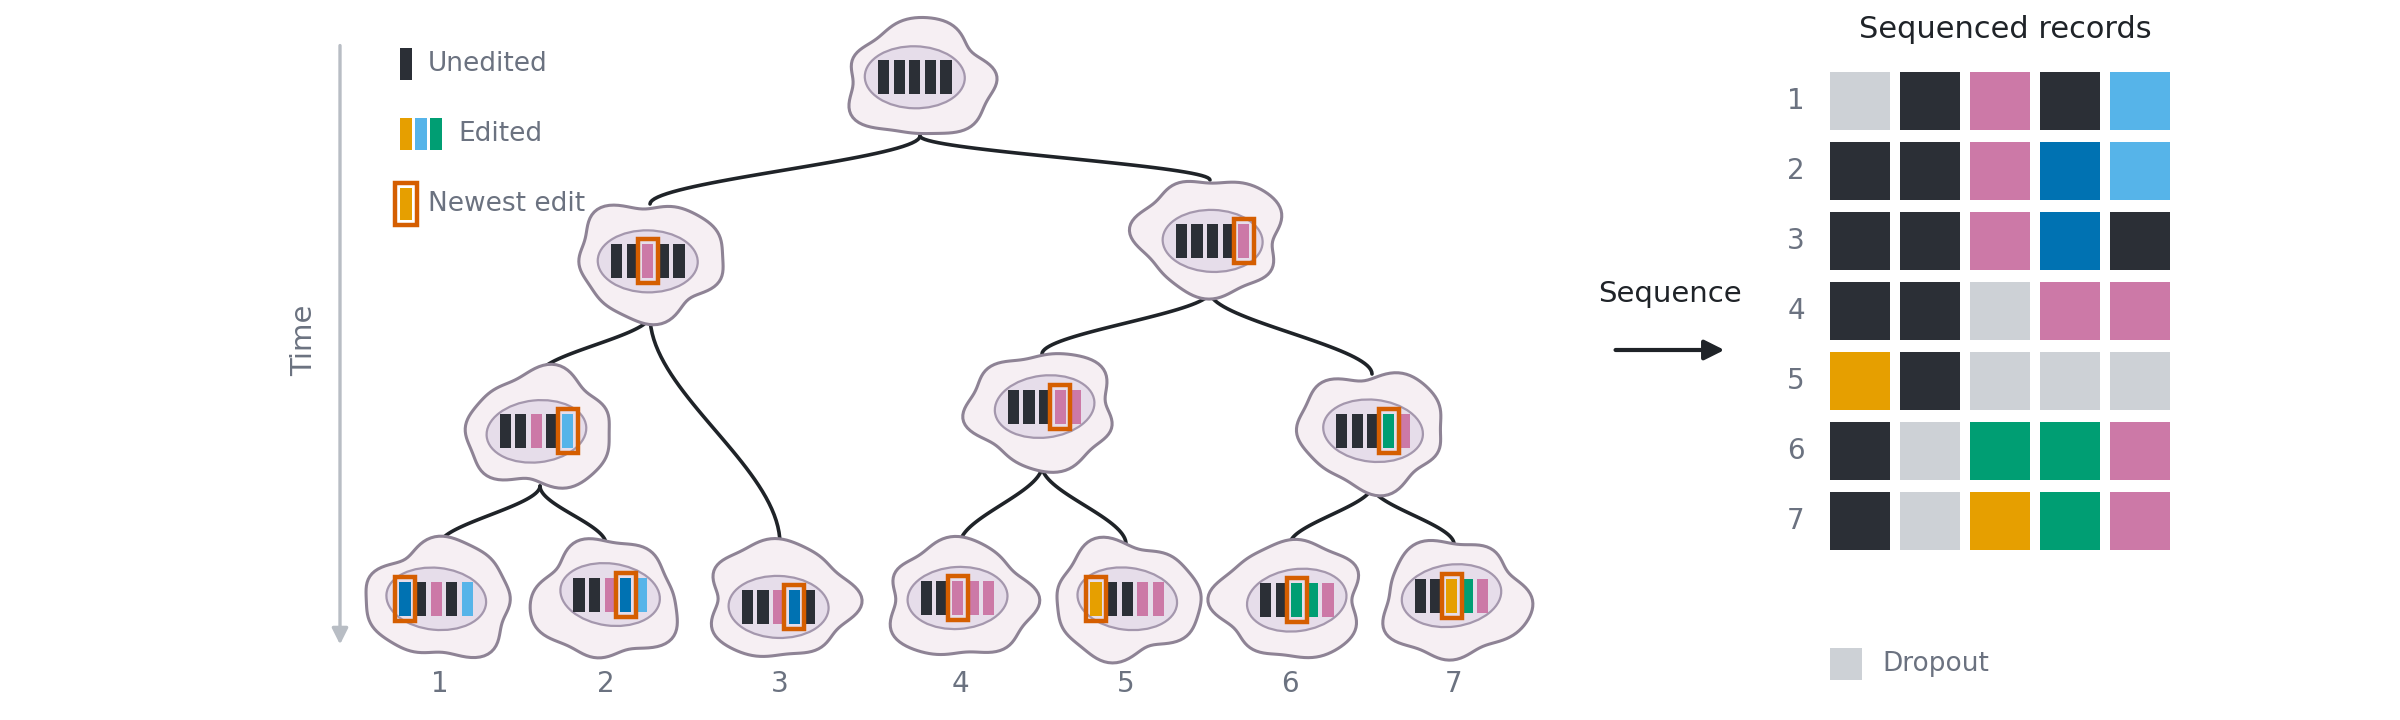
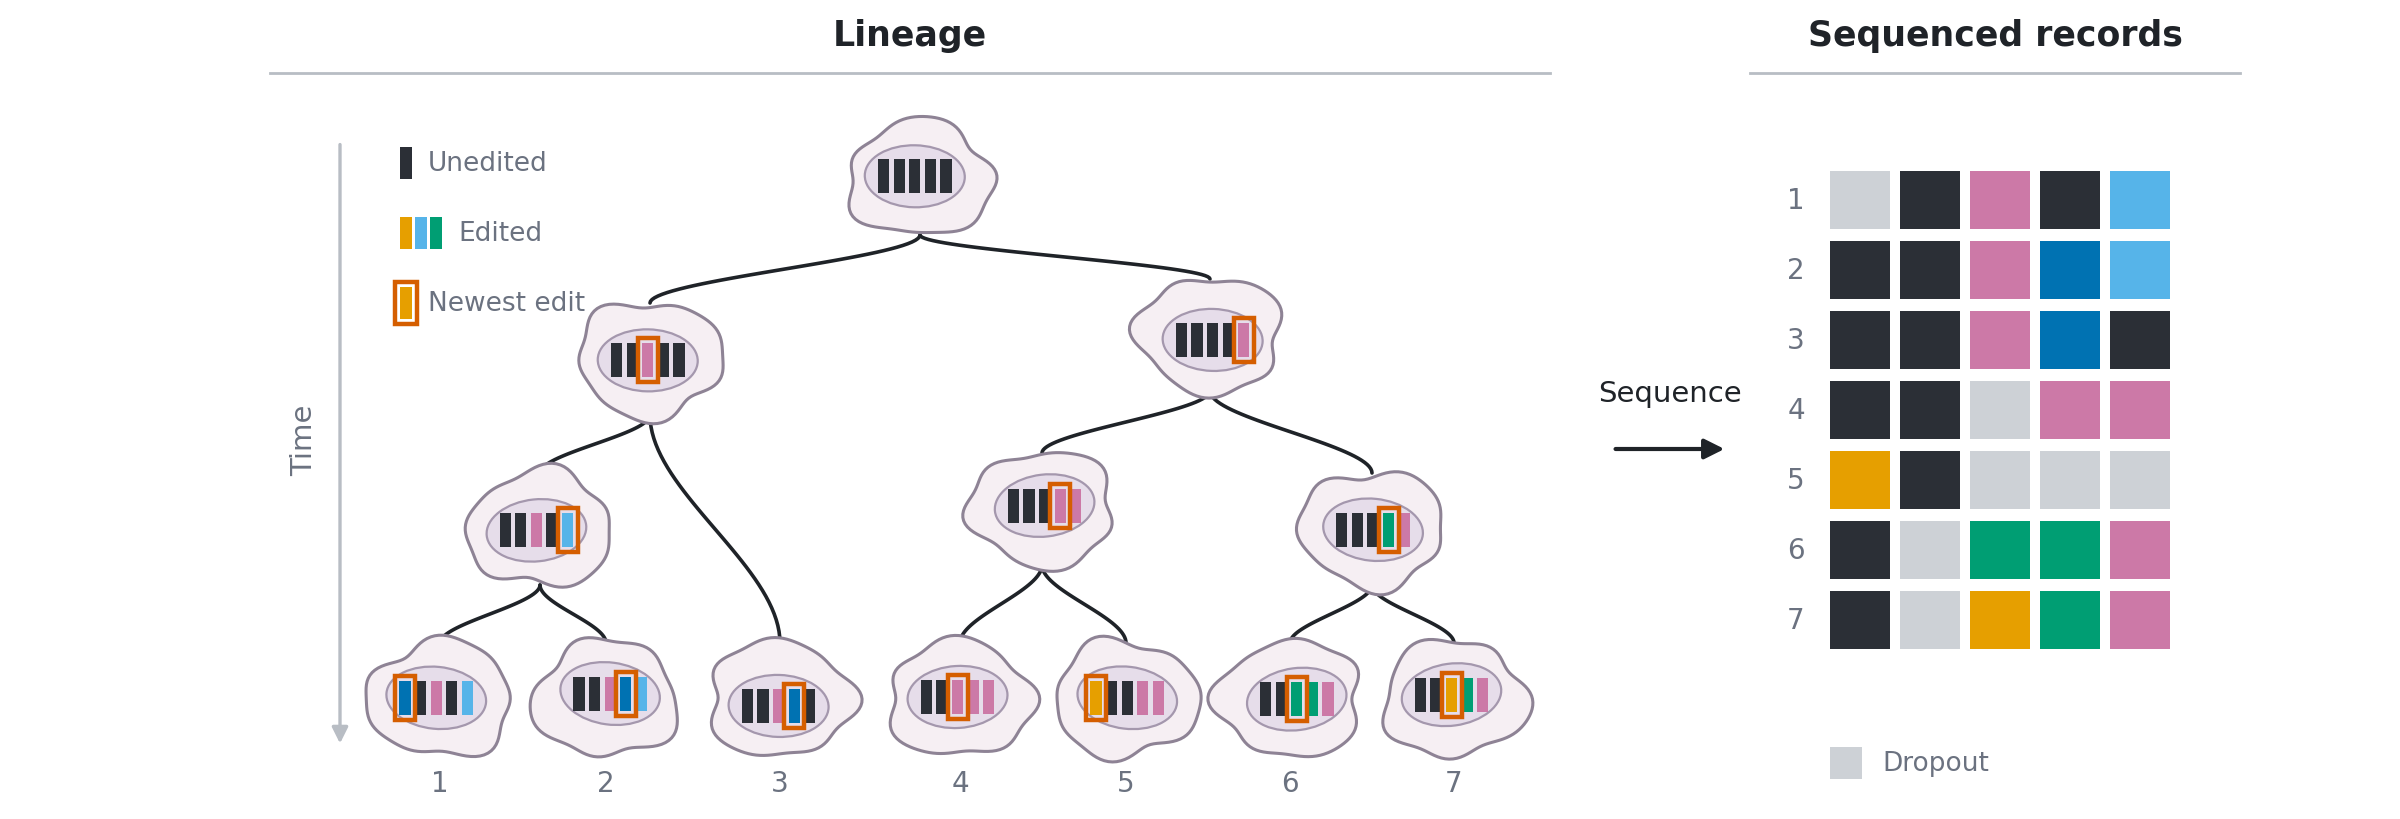
Limb-bud tissue; uncommitted middle band; shared figure headers; serif headings and small caps; headshot raised

diff --git a/_sass/_custom.scss b/_sass/_custom.scss
@@ -22,6 +22,7 @@
   --site-underline: #c7c7cc;
   --site-font: "IBM Plex Sans", system-ui, -apple-system, "Segoe UI", sans-serif;
   --site-mono: "IBM Plex Mono", ui-monospace, "SFMono-Regular", monospace;
+  --site-serif: "Source Serif 4", "Source Serif Pro", Georgia, "Times New Roman", serif;
 }
 
 html[data-theme="dark"] {
@@ -156,6 +157,12 @@ article h3 {
 }
 .profile img {
   box-shadow: none;
+}
+/* the headshot sits a little higher, level with the name block */
+@media (min-width: 768px) {
+  .profile {
+    margin-top: -2.4rem;
+  }
 }
 .profile .more-info {
   font-family: var(--site-font);
@@ -329,4 +336,53 @@ footer {
     transition: none !important;
     animation: none !important;
   }
+}
+
+
+/* ---- formal typography: a serif for the name and headings, small caps for section titles ---- */
+.post-header .post-title,
+header.post-header h1,
+.research-item h4,
+.software-item h3,
+.publications .title {
+  font-family: var(--site-serif);
+  letter-spacing: 0;
+}
+.post-header .post-title,
+header.post-header h1 {
+  font-weight: 600;
+  font-size: 2.7rem;
+}
+.post h2,
+.publications h2,
+article h3 {
+  font-family: var(--site-serif);
+  font-variant: small-caps;
+  font-weight: 600;
+  letter-spacing: 0.06em;
+  font-size: 1.35rem;
+  border-bottom: 1px solid var(--global-text-color);
+  padding-bottom: 0.15rem;
+}
+.research-item h4 {
+  font-size: 1.15rem;
+  font-weight: 600;
+}
+.publications .title {
+  font-size: 1.04rem;
+  font-weight: 600;
+}
+.software-item h3 {
+  font-family: var(--site-serif);
+  font-size: 1.2rem;
+  font-weight: 600;
+}
+.publications,
+.periodical,
+.post-header .address {
+  font-variant-numeric: tabular-nums lining-nums;
+}
+.navbar .nav-link {
+  text-transform: none;
+  letter-spacing: 0.02em;
 }

diff --git a/bin/make_research_art.py b/bin/make_research_art.py
@@ -66,7 +66,7 @@ IDENT_M = ["#6F8CA8", "#7DA58F", "#C48B66", "#D2AE5E", "#8F82AE"]
 # and grow side by side, so the order alternates hue and lightness to keep every border visible.
 CLONE_SET = ["#E3B94F", "#6E5A9E", "#E39AB8", "#C9C8CF", "#F3DF9B", "#9C4F78", "#B7A6DA", "#6F6D78"]
 plt.rcParams["font.family"] = "DejaVu Sans"
-W, H = 12.0, 3.6
+W, H = 12.0, 4.1                                   # every figure: 12 wide, with a header band on top
 DPI = 200
 
 
@@ -81,6 +81,8 @@ def canvas():
 
 
 def save(fig, name):
+    if name == "fate.png" and os.environ.get("FATE_OUT"):
+        name = os.environ["FATE_OUT"]
     fig.savefig(os.path.join(OUT, name), dpi=DPI, facecolor="white")
     plt.close(fig)
 
@@ -91,6 +93,12 @@ def text(ax, x, y, s, **kw):
     kw.setdefault("ha", "center")
     kw.setdefault("va", "center")
     ax.text(x, y, s, **kw)
+
+
+def header(ax, x0, x1, y, label):
+    """The one header style all three figures share: a bold title over a thin rule."""
+    ax.plot([x0, x1], [y - 0.19, y - 0.19], color=GREY, lw=1.0)
+    text(ax, (x0 + x1) / 2, y, label, fontsize=12.5, color=INK, fontweight="bold")
 
 
 # =============================== 1. lineage ===============================
@@ -194,7 +202,8 @@ for i, t in enumerate(TIPS):
         if rng.random() < 0.2:
             c = DROPOUT                                        # the readout failed at this site
         ax.add_patch(Rectangle((MX + s * (cw + 0.05), y), cw, ch, fc=c, ec="none", zorder=3))
-text(ax, MX + NSITE * (cw + 0.05) / 2, 3.45, "Sequenced records", fontsize=11, color=INK)
+header(ax, 1.35, 7.75, H - 0.18, "Lineage")
+header(ax, 8.75, 11.2, H - 0.18, "Sequenced records")
 ax.add_patch(Rectangle((MX, 0.2), 0.16, 0.16, fc=DROPOUT, ec="none"))
 text(ax, MX + 0.26, 0.28, "Dropout", fontsize=9.5, ha="left")
 save(fig, "lineage.png")
@@ -216,14 +225,58 @@ rs = np.random.default_rng(21)
 GENS, CLONE_GEN, EARLY_GEN = 9, 3, 6
 
 
+# the tissue grows inside an outline that keeps its shape and scales with the number of cells
+TISSUE_SHAPE = os.environ.get("TISSUE_SHAPE", "bud")
+
+
+def outline_unit(kind):
+    """A closed outline of unit area, centred on the origin."""
+    th = np.linspace(0, 2 * np.pi, 240, endpoint=False)
+    if kind == "bean":                                   # kidney: long, with one concave side
+        x = 1.55 * np.cos(th)
+        y = 0.8 * np.sin(th) - 0.28 * np.cos(2 * th) * (np.sin(th) > 0) - 0.1 * np.cos(th) ** 2
+    elif kind == "bud":                                  # limb bud: a broad base and a rounded, uneven outgrowth
+        wob = 1 + 0.07 * np.sin(3 * th + 0.7) + 0.045 * np.cos(5 * th + 0.3) + 0.03 * np.sin(7 * th + 1.9)
+        x = 1.15 * np.cos(th) * (1 - 0.2 * np.sin(th)) * wob
+        dome = (1.45 * np.sin(th) + 0.22 * np.cos(th) * np.sin(th)) * wob - 0.32     # leans to one side
+        base = -0.32 + 0.06 * np.sin(th) + 0.035 * np.sin(4 * th + 0.5)               # not quite flat
+        y = np.where(np.sin(th) < 0, base, dome)
+    else:                                                # lobed, an irregular organic outline
+        r = 1 + 0.16 * np.sin(3 * th + 0.4) + 0.1 * np.cos(5 * th + 1.1) + 0.06 * np.sin(2 * th)
+        x, y = 1.4 * r * np.cos(th), 0.85 * r * np.sin(th)
+    poly = SPoly(np.c_[x, y]).buffer(0.04).buffer(-0.04)          # smooth out any self-crossing
+    if poly.geom_type == "MultiPolygon":
+        poly = max(poly.geoms, key=lambda g: g.area)
+    c = poly.centroid
+    xy = np.array(poly.exterior.coords) - [c.x, c.y]
+    return xy / np.sqrt(SPoly(xy).area)
+
+
+UNIT = outline_unit(TISSUE_SHAPE)
+
+
+def confine(p):
+    """Pull any cell that has left the outline back just inside it; the outline is scaled so its
+    area matches the number of cells."""
+    shape = SPoly(UNIT * np.sqrt(0.8 * len(p)))       # slightly under the packing area, so cells fill it
+    inner = shape.buffer(-0.3)
+    for i, q in enumerate(p):
+        pt = Point(q)
+        if not inner.contains(pt):
+            b = inner.exterior.interpolate(inner.exterior.project(pt))
+            p[i] = [b.x, b.y]
+    return p
+
+
 def relax(p, iters=30):
-    """Overlapping cells push apart; a weak confinement across the tissue makes it grow long."""
-    for _ in range(iters):
+    """Overlapping cells push apart, inside the tissue outline."""
+    for it in range(iters):
         d = p[:, None, :] - p[None, :, :]
         r = np.hypot(d[..., 0], d[..., 1]) + np.eye(len(p)) * 9
         over = np.clip(1.0 - r, 0, None)
-        p = p + 0.25 * (d / r[..., None] * over[..., None]).sum(1)
-        p[:, 1] -= 0.012 * p[:, 1]
+        p = p + 0.45 * (d / r[..., None] * over[..., None]).sum(1)
+        if len(p) >= 8 and it % 2 == 1:
+            p = confine(p)
     return p
 
 
@@ -240,19 +293,11 @@ for g in range(1, GENS + 1):
     if g == CLONE_GEN:                                   # label the founders of the clones we follow
         clone = np.arange(len(pos))
         bias = rs.normal(0, 0.07, len(pos))
-    pos = relax(pos + rs.normal(0, 0.08, pos.shape))
+    pos = relax(pos + rs.normal(0, 0.08, pos.shape), iters=60 + 25 * g)   # enough to resolve the overlaps as the tissue grows
     if g == EARLY_GEN:
         snap = dict(pos=pos.copy(), clone=clone.copy())
 
 # a gentle bend, so the tissue is not a plain ellipse
-def bend(p):
-    q = p.copy()
-    q[:, 1] += 0.012 * (q[:, 0] ** 2) - 0.06 * q[:, 0]
-    return q
-
-
-pos = bend(pos)
-snap["pos"] = bend(snap["pos"])
 XMIN, XMAX = pos[:, 0].min(), pos[:, 0].max()
 
 
@@ -263,7 +308,9 @@ def signal_of(p):
 fate = np.digitize(signal_of(pos) + bias + rs.normal(0, 0.05, len(pos)), [0.38, 0.64])
 
 CLONE_COLS = CLONE_SET
-FATE_COLS = IDENT_M[:3]                            # the same colors as States 1 to 3 in the transfer figure
+# low signal, middle, high signal: the middle band stays uncommitted (blue), flanked by two fates
+FATE_COLS = [IDENT_M[1], IDENT_M[0], IDENT_M[2]]
+FATE_LABS = ("Fate A", "Uncommitted", "Fate B")
 # the signal is a single slate ramp, from near white to near black, so its magnitude reads at a glance
 SIG_CMAP = matplotlib.colors.LinearSegmentedColormap.from_list("sig", ["#F7F8FA", "#B4BDCB", "#5E6B82", "#18202E"])
 
@@ -297,7 +344,7 @@ fig, ax = canvas()
 # early: two small tissues, clones and the signal they sit in
 early, eclone = snap["pos"], snap["clone"]
 # one scale for both stages, set so the grown tissue fills its panel; the early tissue is true to size
-SC = min(3.1 / np.ptp(pos[:, 0]), 2.45 / np.ptp(pos[:, 1]))
+SC = min(3.35 / np.ptp(pos[:, 0]), 2.75 / np.ptp(pos[:, 1]))
 tissue(ax, 1.15, 1.9, SC, early, [CLONE_COLS[c % 8] for c in eclone])
 tissue(ax, 3.2, 1.9, SC, early, [SIG_CMAP(v) for v in signal_of(early)])
 # late: the grown tissue, clones and the fate each cell took
@@ -306,9 +353,7 @@ tissue(ax, 10.05, 1.9, SC, pos, [FATE_COLS[f] for f in fate])
 ax.add_patch(FancyArrowPatch((4.2, 1.9), (4.7, 1.9), arrowstyle="-|>", mutation_scale=14, color=MUTED, lw=1.4))
 # group labels on top, panel labels underneath, so the two never read as one
 for x0, x1, lab in ((0.3, 4.05, "Early"), (4.85, 11.85, "Late")):
-    ax.plot([x0, x1], [3.32, 3.32], color=GREY, lw=1.0)
-    text(ax, (x0 + x1) / 2, 3.47, lab, fontsize=12.5, color=INK, fontweight="bold",
-         bbox=dict(boxstyle="square,pad=0.2", fc="white", ec="none"))
+    header(ax, x0, x1, H - 0.18, lab)
 for x, lab in ((1.15, "Clones"), (3.2, "Signal"), (6.45, "Clones"), (10.05, "Fates")):
     text(ax, x, 0.28, lab, fontsize=11.5, color=MUTED)
 # the signal's scale bar, under the signal panel
@@ -317,9 +362,10 @@ ax.imshow(sbar, extent=(2.55, 3.85, 0.02, 0.12), aspect="auto", cmap=SIG_CMAP, z
 text(ax, 2.5, 0.07, "Low", fontsize=9, ha="right")
 text(ax, 3.9, 0.07, "High", fontsize=9, ha="left")
 # fate key
-for k, (c, lab) in enumerate(zip(FATE_COLS, ("Fate 1", "Fate 2", "Fate 3"))):
-    ax.add_patch(Rectangle((8.95 + k * 0.85, 0.02), 0.16, 0.12, fc=c, ec="none"))
-    text(ax, 9.16 + k * 0.85, 0.08, lab, fontsize=9.5, ha="left")
+for k, (c, lab) in enumerate(zip(FATE_COLS, FATE_LABS)):
+    kx = (8.55, 9.45, 10.8)[k]
+    ax.add_patch(Rectangle((kx, 0.02), 0.16, 0.12, fc=c, ec="none"))
+    text(ax, kx + 0.21, 0.08, lab, fontsize=9.5, ha="left")
 save(fig, "fate.png")
 
 # =============================== 3. transfer ===============================
@@ -455,7 +501,7 @@ ax.plot([p[0], q[0] + 0.02], [p[1] - 0.02, q[1] + 0.12], color=MUTED, lw=1.2, ls
 ax.plot([q[0] - 0.07, q[0] + 0.11], [q[1] + 0.05, q[1] + 0.23], color=MUTED, lw=2.0, zorder=7)
 ax.plot([q[0] - 0.07, q[0] + 0.11], [q[1] + 0.23, q[1] + 0.05], color=MUTED, lw=2.0, zorder=7)
 text(ax, q[0] - 0.1, ROW[3] - 0.26, "No human counterpart", fontsize=9, color=MUTED)
-text(ax, 4.2, 4.42, "Regulatory Elements", fontsize=12, color=INK)
+header(ax, 1.95, 6.65, H3 - 0.18, "Regulatory elements")
 
 # ---------------- right: a stack of embedding planes, one cluster per cell state ----------------
 STATES = [("State %d" % (j + 1), IDENT_M[j], ca, cb) for j, (ca, cb) in
@@ -480,7 +526,7 @@ for k, (lab, key) in enumerate(SPECIES):
 for ca, cb in zip(CENT, CENT[1:]):
     for j in range(len(STATES)):
         ax.plot([ca[j][0], cb[j][0]], [ca[j][1], cb[j][1]], color=MUTED, lw=0.9, ls=(0, (3, 2)), zorder=10)
-text(ax, 9.05, 4.42, "Mapped Cell States", fontsize=12, color=INK)
+header(ax, 6.85, 11.9, H3 - 0.18, "Mapped cell states")
 fig.savefig(os.path.join(OUT, "transfer.png"), dpi=DPI, facecolor="white")
 plt.close(fig)
 print("wrote", sorted(os.listdir(OUT)))
